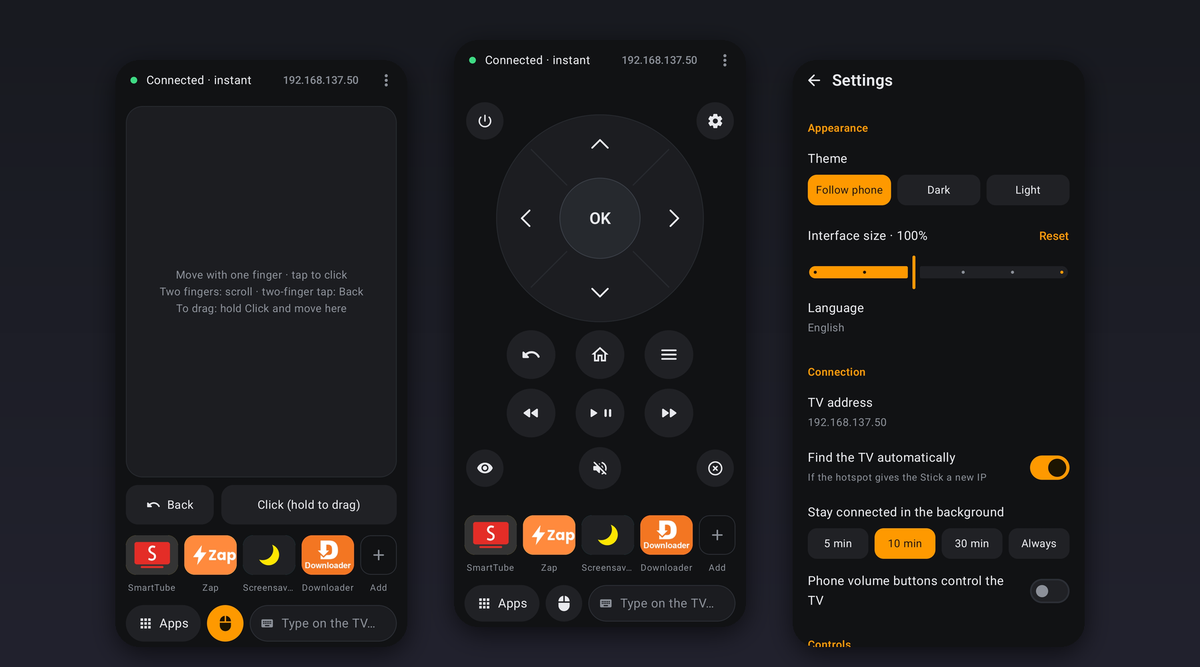
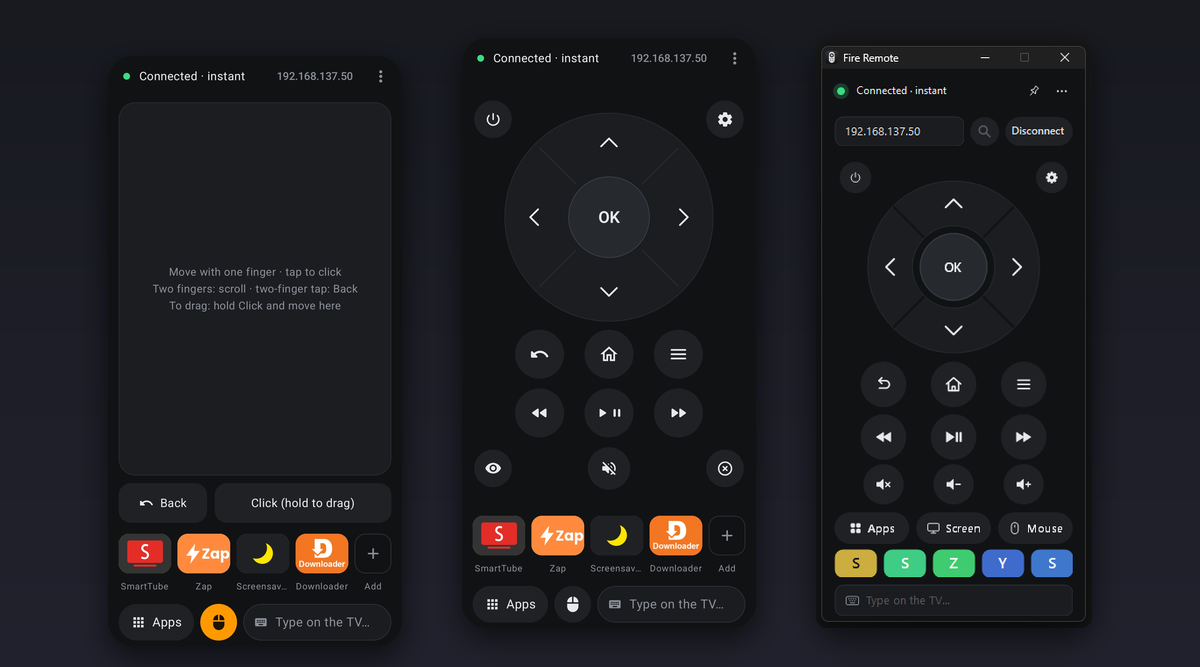
README: laptop screenshots, hero with phone and Windows app
Claude-Session: https://claude.ai/code/session_01GihiLTxhZiejKqANYt67Ni

diff --git a/README.md b/README.md
@@ -24,7 +24,7 @@
 </p>
 
 <p align="center">
-  <a href="docs/screenshots/hero.png"><img src="docs/screenshots/hero.png" alt="Fire Remote on Android: touchpad, remote and settings" width="900"></a>
+  <a href="docs/screenshots/hero.png"><img src="docs/screenshots/hero.png" alt="Fire Remote on Android (touchpad, remote) and on Windows" width="900"></a>
 </p>
 
 Fire Remote talks to the Stick directly through Android's debugging bridge (ADB). It drives [scrcpy-server](https://github.com/Genymobile/scrcpy) on the TV with video turned off, so every key press arrives instantly. It can also plug a virtual mouse into the Stick, so websites and apps built for touch finally work with a cursor.
@@ -90,7 +90,9 @@ There are two apps, and you can use either or both:
 
 ### Laptop app
 
-The laptop app has the same remote, plus:
+<p align="center"><img src="docs/screenshots/desktop-main.png" alt="Windows app" width="250"> &nbsp; <img src="docs/screenshots/desktop-menu.png" alt="More menu" width="330"></p>
+
+The laptop app has the same remote, with volume keys, letter tiles for favorites and a compact window. It also adds:
 
 - **Keyboard control** when its window has focus:
 
@@ -109,7 +111,11 @@ The laptop app has the same remote, plus:
   | Ctrl+V | Paste text to the TV |
   | Ctrl+Alt+M | TV mouse on / off, from any window |
 
-- **More > Show the TV screen** opens scrcpy for full mirroring.
+- **Mouse mode.** Click **Mouse**, or press `Ctrl+Alt+M` from anywhere. A small scrcpy window opens. Click it to capture your mouse, which then moves the cursor on the TV. **Alt** releases it.
+
+  <p align="center"><img src="docs/screenshots/desktop-mouse.png" alt="Mouse mode: click the small scrcpy window to drive the TV cursor" width="560"></p>
+
+- **Screen** (or **More › Show the TV screen**) opens scrcpy with the TV picture, to mirror it on the laptop.
 - **Apps menu.** Right-click an app to pin or unpin it. Right-click the favorites bar, or use More › Add website tile, to add a site.
 
 ---
@@ -156,7 +162,7 @@ You're connected when the dot turns green. From here:
 1. Download [scrcpy](https://github.com/Genymobile/scrcpy/releases) (the `win64` zip) and unzip it, for example to `C:\scrcpy`.
 2. Download `FireRemote.exe` from [Releases](../../releases/latest) and put it **in the scrcpy folder**, next to `adb.exe` and `scrcpy-server`.
 3. Run it. Windows SmartScreen may warn about an unsigned app: choose **More info › Run anyway**.
-4. Type the TV's IP and press **Connect**, or use **More (⋯) › Find the TV on my hotspot**.
+4. Type the TV's IP and press **Connect**, or click the 🔍 button next to the address to find the TV on your hotspot.
 
 The app finds `adb.exe` by itself, remembers the last TV, and keeps its settings in `%APPDATA%\FireRemote`.
 
